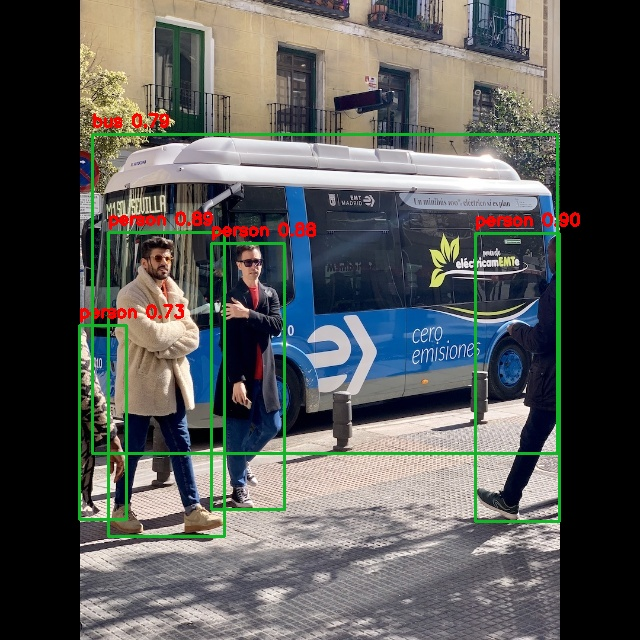
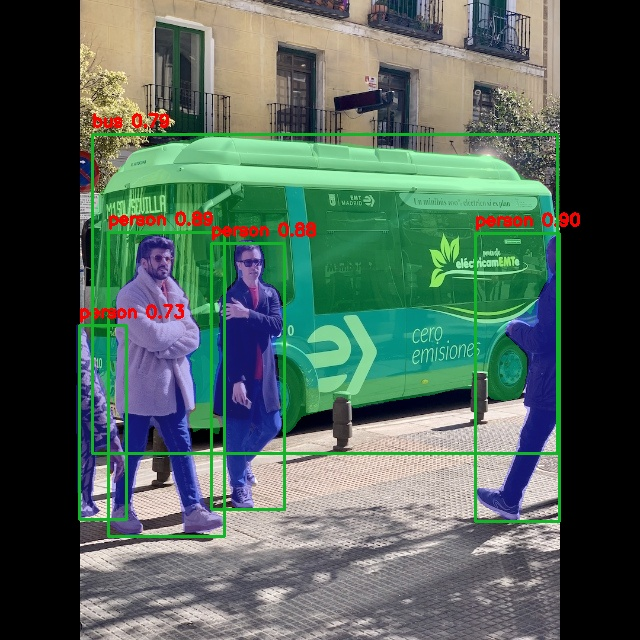
debug yolov5 segmentation output

diff --git a/examples/yolov5_seg/python/ort_yolov5_seg_multi.py b/examples/yolov5_seg/python/ort_yolov5_seg_multi.py
@@ -168,6 +168,13 @@ def decode_yolov5_head(output: np.ndarray, anchors: np.ndarray, input_size):
     return boxes_xyxy, objectness, class_scores, mask_coeffs
 
 
+def decode_seg_coeff_head(seg_output: np.ndarray, num_anchors: int):
+    _, c, h, w = seg_output.shape
+    per_anchor_dim = c // num_anchors
+    feat = seg_output.reshape(1, num_anchors, per_anchor_dim, h, w)[0]
+    return feat.transpose(0, 2, 3, 1).reshape(-1, per_anchor_dim)
+
+
 def sigmoid(x: np.ndarray) -> np.ndarray:
     return 1.0 / (1.0 + np.exp(-x))
 
@@ -234,14 +241,23 @@ def restore_masks_to_original(masks: np.ndarray, ratio: float, pad, original_sha
 
 def post_process(outputs, input_size, obj_thresh, nms_thresh):
     if not outputs:
-        return None, None, None
+        return None, None, None, None
 
     det_heads = [o for o in outputs if isinstance(o, np.ndarray) and o.ndim == 4 and o.shape[1] % 3 == 0 and o.shape[1] >= 255]
-    proto_candidates = [o for o in outputs if isinstance(o, np.ndarray) and o.ndim == 4 and o.shape[1] < 128]
+    seg_heads = [o for o in outputs if isinstance(o, np.ndarray) and o.ndim == 4 and o.shape[1] % 3 == 0 and 0 < o.shape[1] < 255]
+    proto_candidates = [
+        o
+        for o in outputs
+        if isinstance(o, np.ndarray)
+        and o.ndim == 4
+        and o.shape[1] < o.shape[2]
+        and o.shape[1] < o.shape[3]
+    ]
 
     # Multi-output head mode: e.g. seg [(1,351,80,80), (1,351,40,40), (1,351,20,20), (1,32,160,160)].
     if len(det_heads) >= 3:
         outputs_sorted = sorted(det_heads[:3], key=lambda x: x.shape[-1], reverse=True)
+        seg_sorted = sorted(seg_heads[:3], key=lambda x: x.shape[-1], reverse=True)
         boxes_list, obj_list, cls_list, seg_list = [], [], [], []
 
         for i, out in enumerate(outputs_sorted):
@@ -253,7 +269,13 @@ def post_process(outputs, input_size, obj_thresh, nms_thresh):
             boxes_list.append(boxes_i)
             obj_list.append(obj_i)
             cls_list.append(cls_i)
-            seg_list.append(seg_i)
+
+            if seg_i.shape[1] > 0:
+                seg_list.append(seg_i)
+            elif i < len(seg_sorted):
+                seg_out = np.asarray(seg_sorted[i], dtype=np.float32)
+                if seg_out.shape[0] == 1 and seg_out.shape[2] == out.shape[2] and seg_out.shape[3] == out.shape[3]:
+                    seg_list.append(decode_seg_coeff_head(seg_out, YOLOV5_ANCHORS[i].shape[0]))
 
         boxes = np.concatenate(boxes_list, axis=0)
         objectness = np.concatenate(obj_list, axis=0)
@@ -270,7 +292,8 @@ def post_process(outputs, input_size, obj_thresh, nms_thresh):
         if pred.ndim != 2:
             raise ValueError(f"Unexpected YOLOv5 output shape: {outputs[0].shape}")
 
-        if pred.shape[1] < pred.shape[0]:
+        # Keep [N, C] and transpose [C, N] into [N, C].
+        if pred.shape[0] <= 200 and pred.shape[1] > pred.shape[0]:
             pred = pred.T
 
         if pred.shape[1] <= 5:
@@ -293,7 +316,7 @@ def post_process(outputs, input_size, obj_thresh, nms_thresh):
     seg_coeffs = seg_coeffs[keep_mask] if seg_coeffs.size else seg_coeffs
 
     if boxes.size == 0:
-        return None, None, None
+        return None, None, None, None
 
     nboxes, nclasses, nscores, nseg = [], [], [], []
     for c in set(classes.tolist()):
@@ -312,7 +335,7 @@ def post_process(outputs, input_size, obj_thresh, nms_thresh):
                 nseg.append(seg[keep])
 
     if not nboxes:
-        return None, None, None
+        return None, None, None, None
 
     boxes = np.concatenate(nboxes)
     classes = np.concatenate(nclasses)
